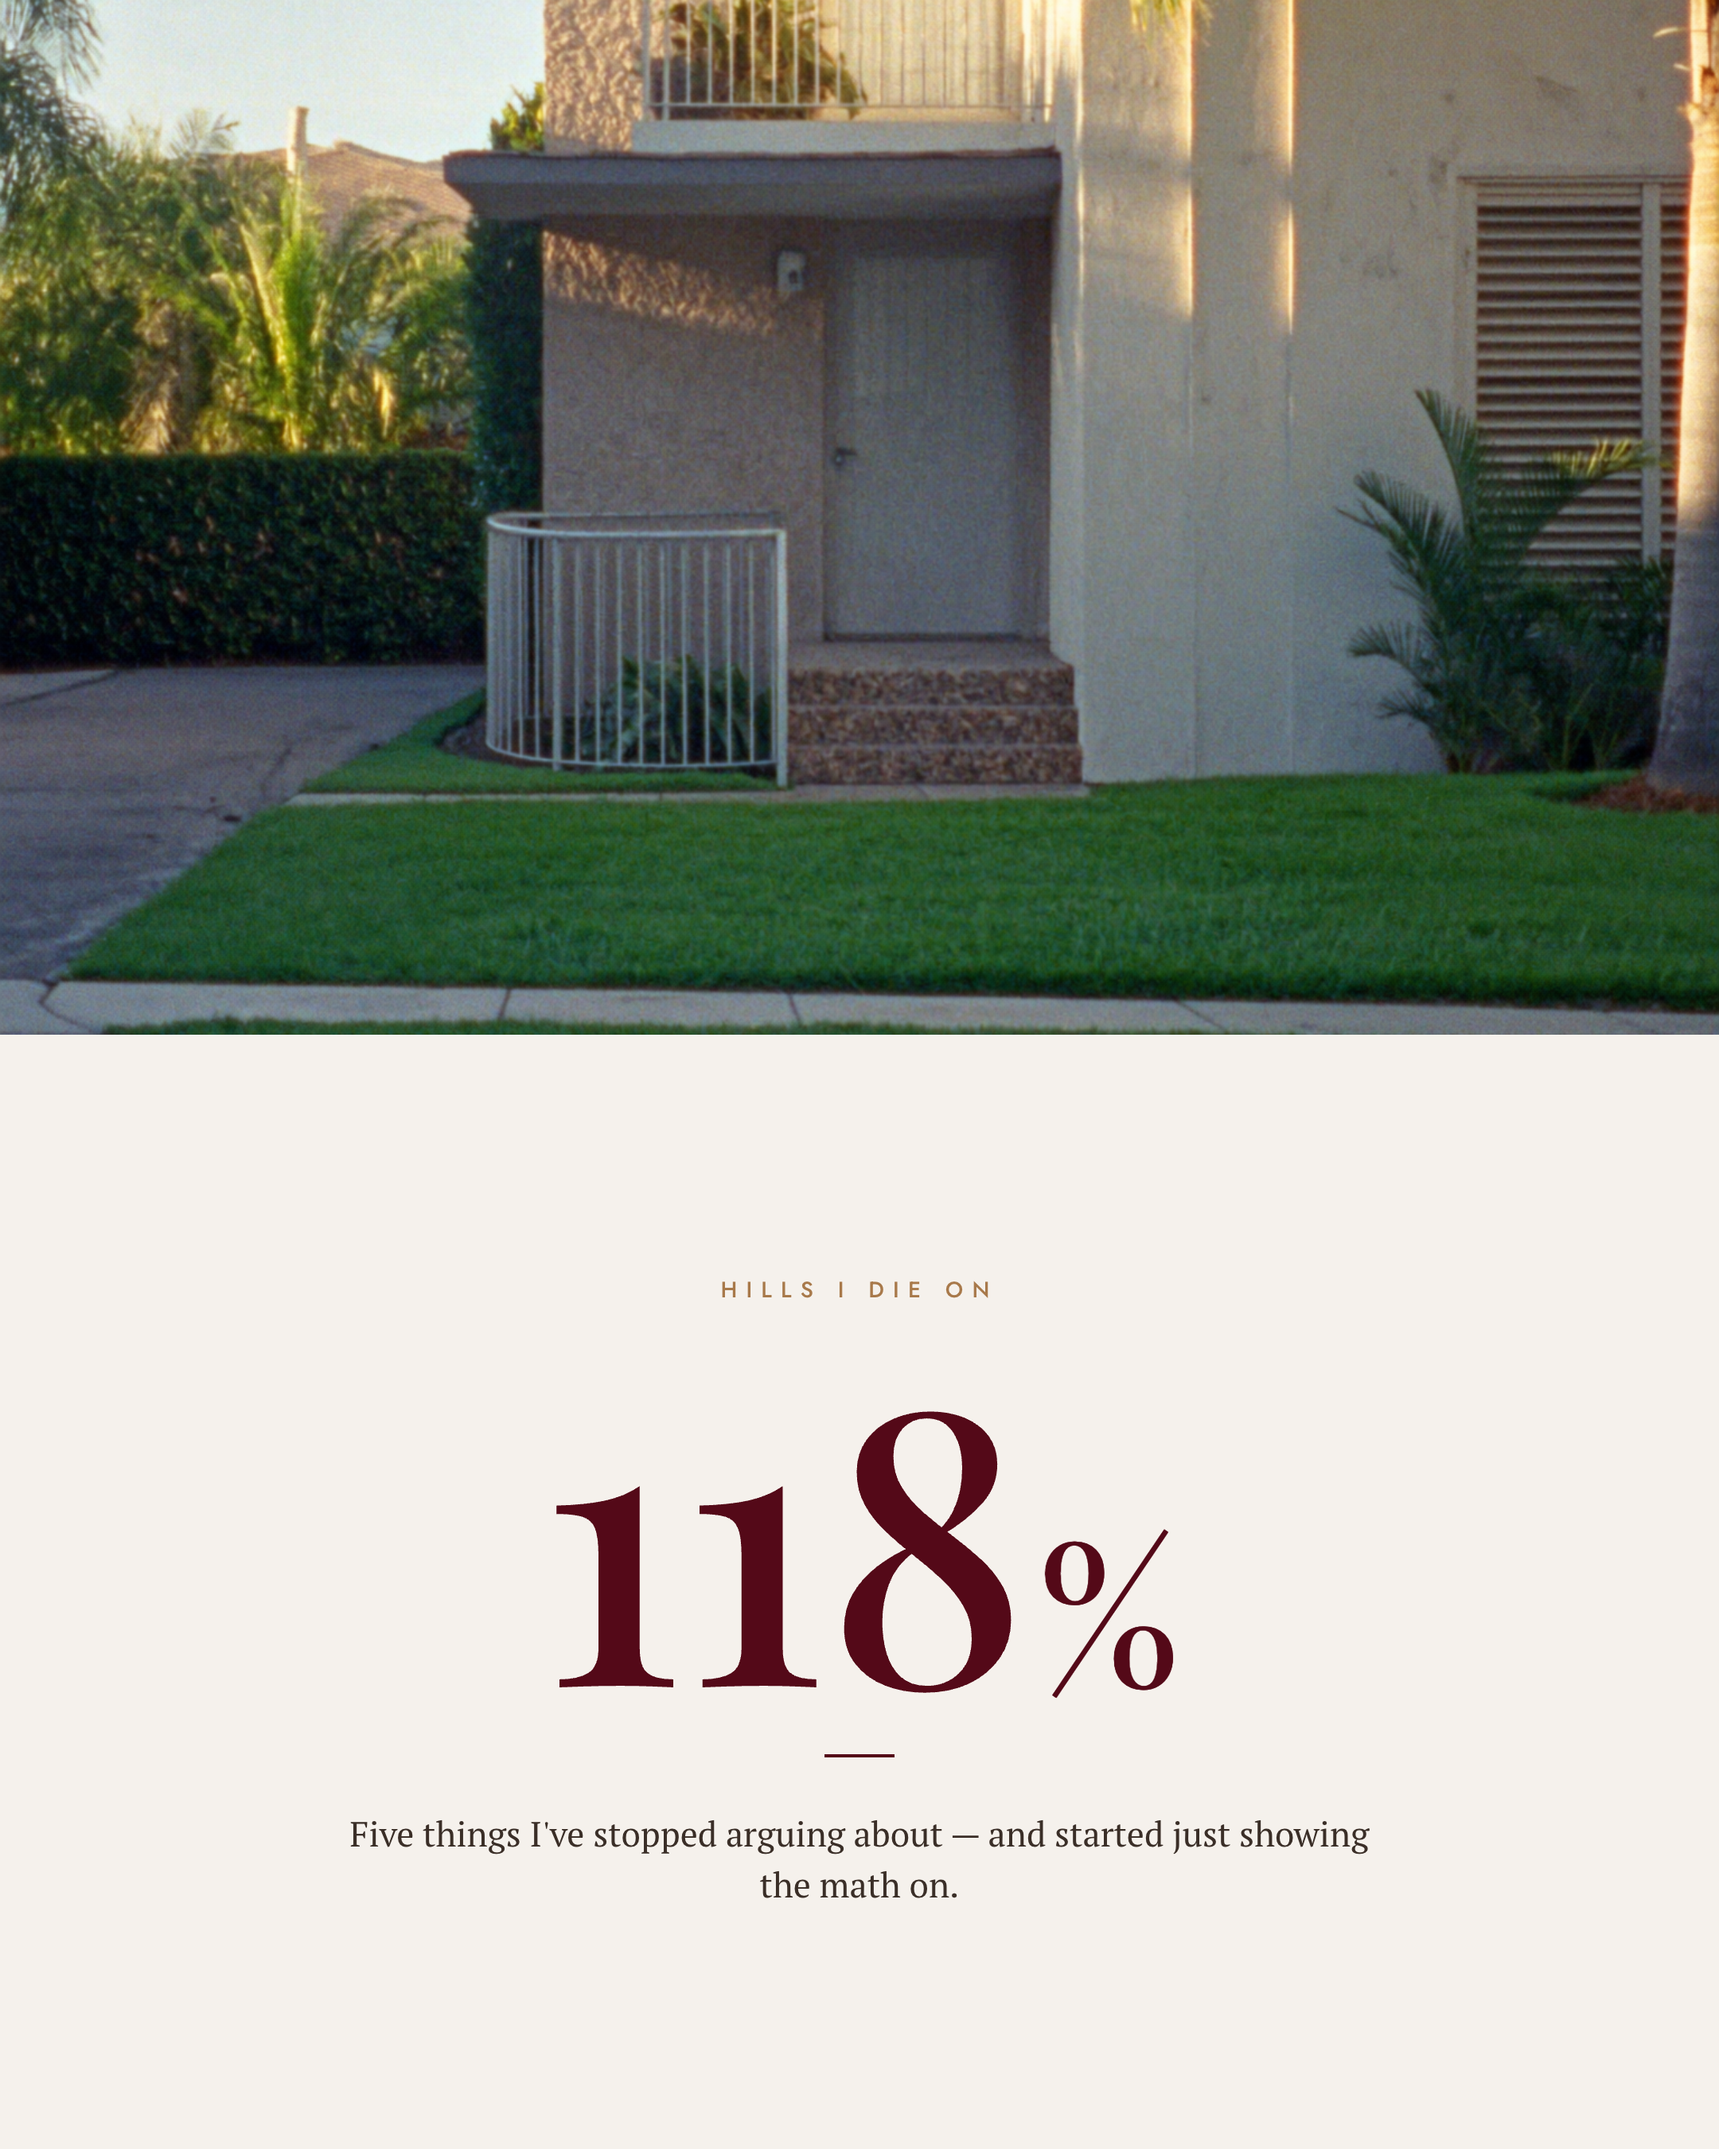
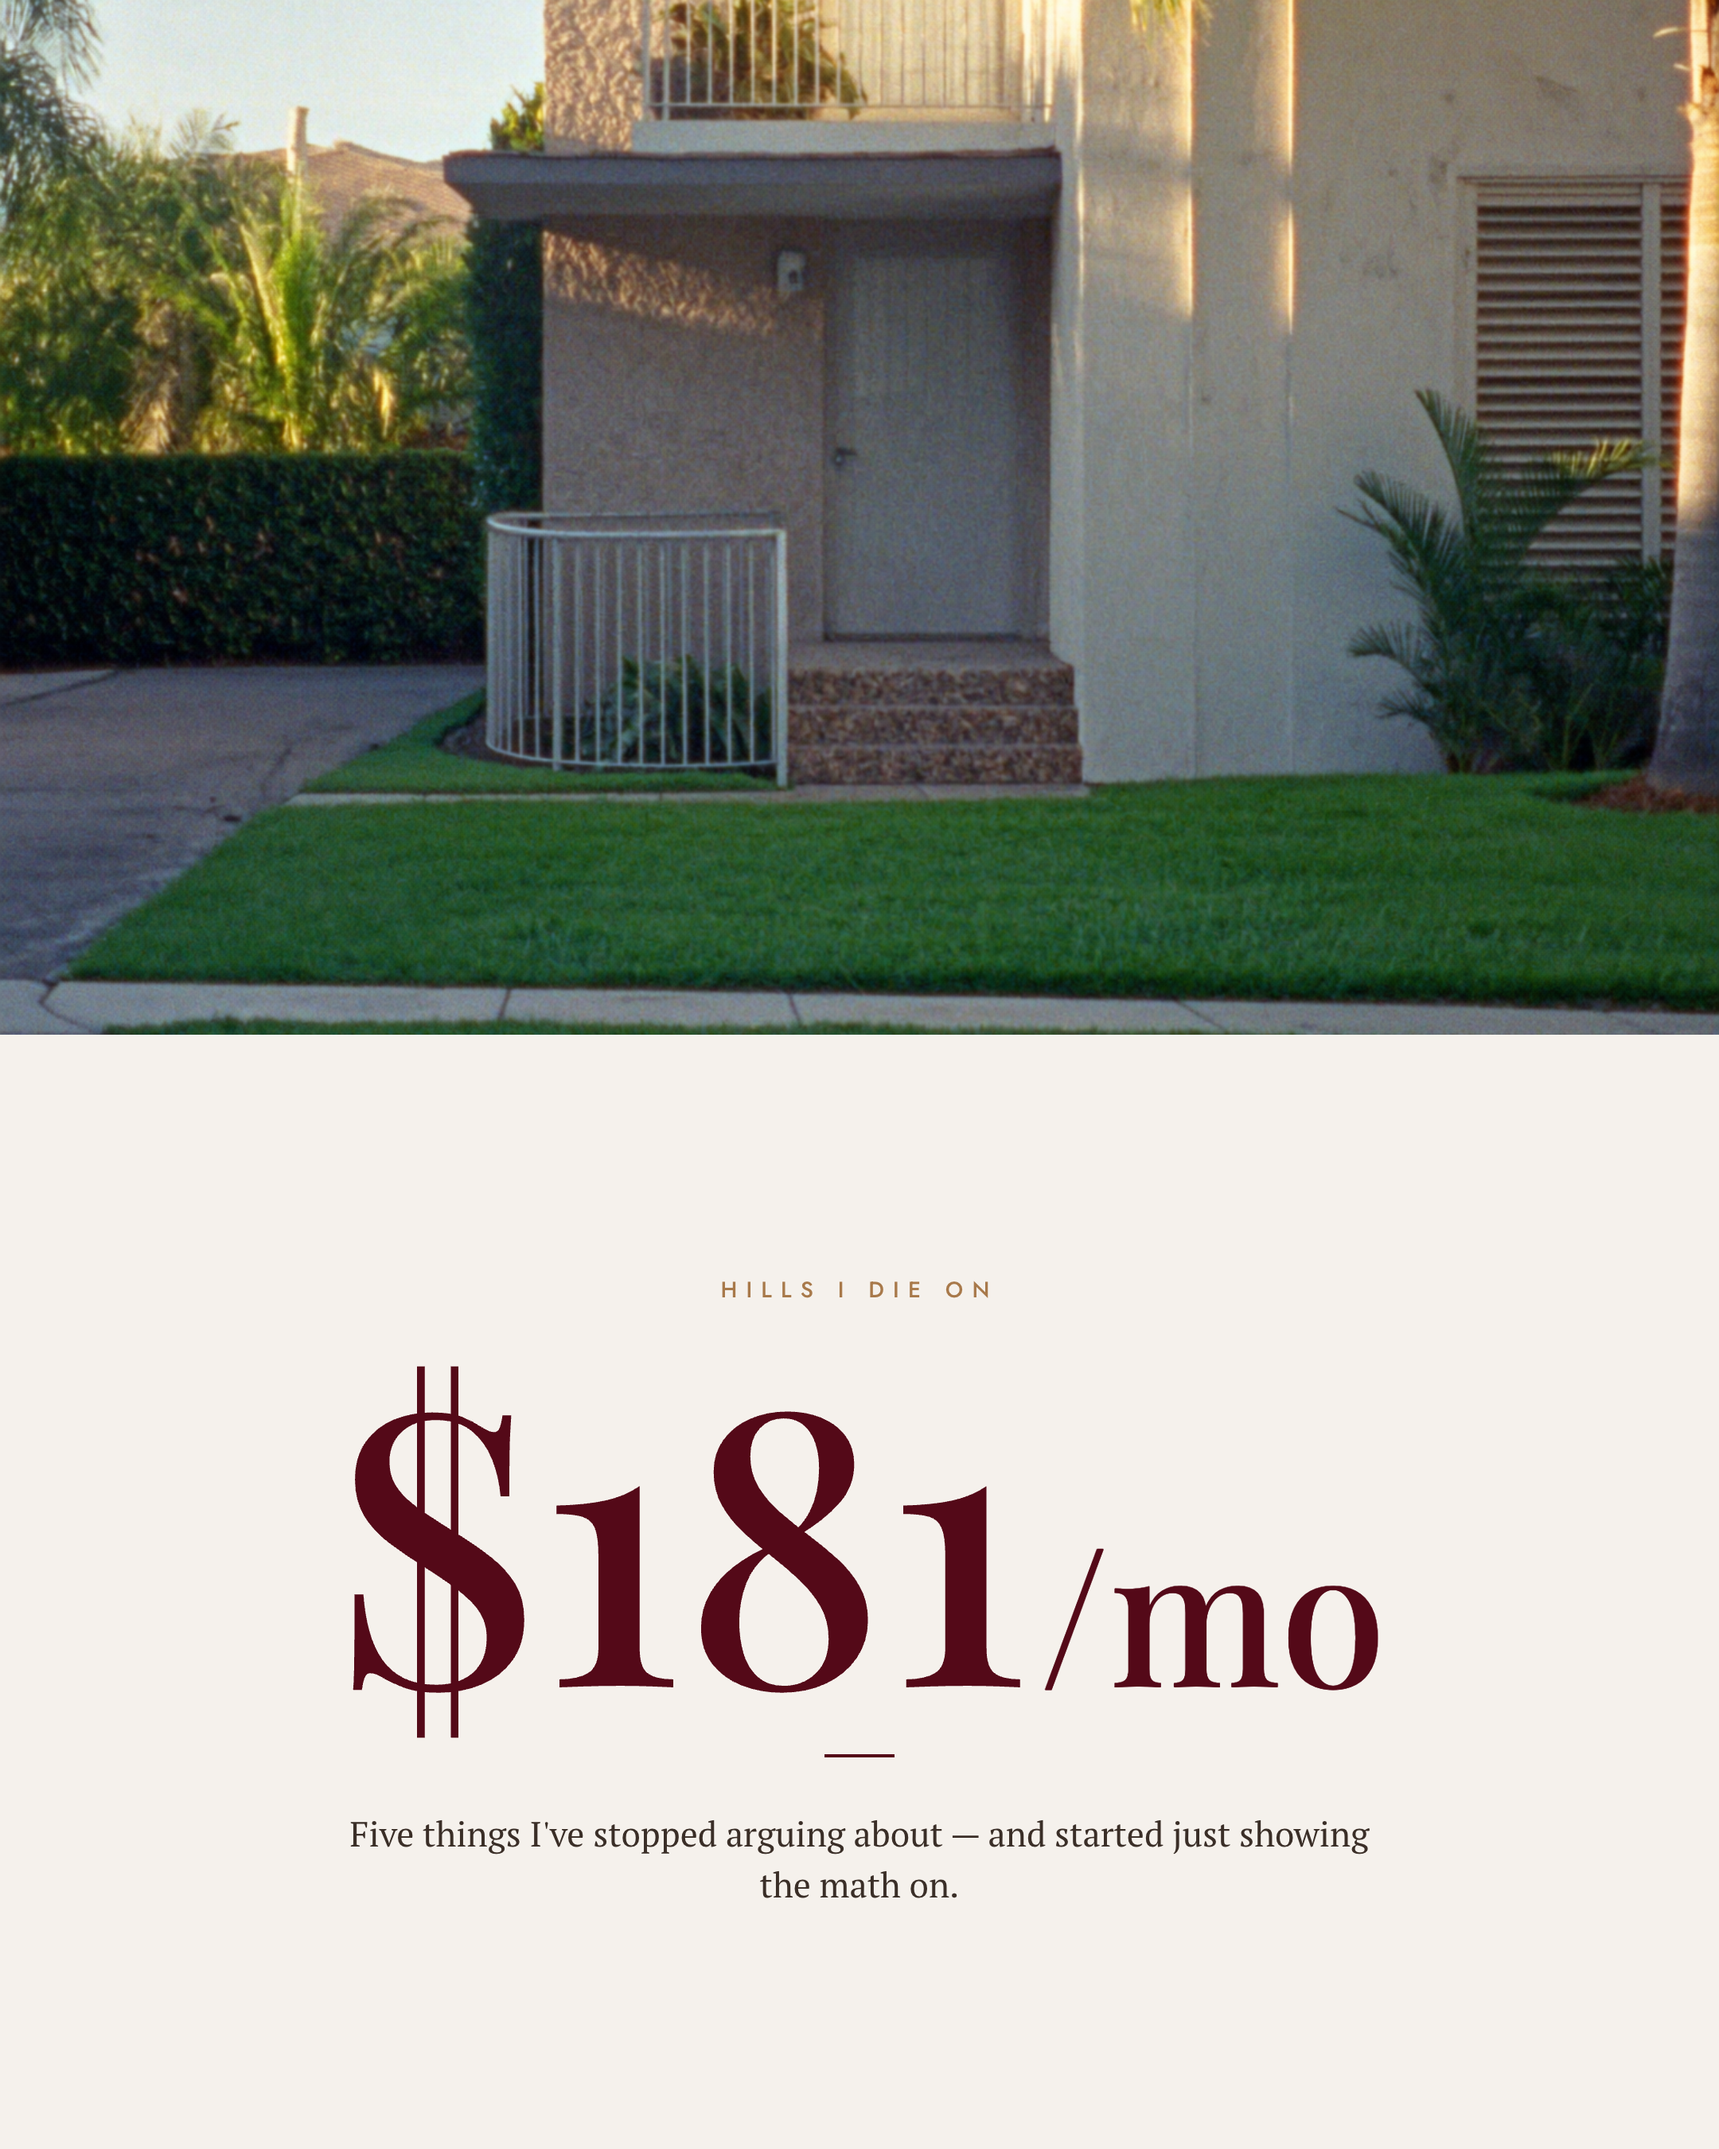
render: W90 (auto-published from production-dispatcher)

Changed region(s): [[0.4032, 0.6533, 0.8065, 0.8089], [0.1861, 0.6533, 0.3102, 0.8089]]

diff --git a/W90-acc3a8/mon/index.html b/W90-acc3a8/mon/index.html
@@ -131,7 +131,7 @@
 
   <footer class="page-footer">
     <a href="../" class="page-footer__back">&larr; back to W90</a>
-    <div class="page-footer__updated">Updated Jun 9, 2026 1:14 PM</div>
+    <div class="page-footer__updated">Updated Jun 9, 2026 1:30 PM</div>
   </footer>
 
   <script>

diff --git a/W90-acc3a8/thu/index.html b/W90-acc3a8/thu/index.html
@@ -131,7 +131,7 @@
 
   <footer class="page-footer">
     <a href="../" class="page-footer__back">&larr; back to W90</a>
-    <div class="page-footer__updated">Updated Jun 9, 2026 1:14 PM</div>
+    <div class="page-footer__updated">Updated Jun 9, 2026 1:30 PM</div>
   </footer>
 
   <script>

diff --git a/W90-acc3a8/index.html b/W90-acc3a8/index.html
@@ -100,7 +100,7 @@
 
   <footer class="page-footer">
     <div class="page-footer__token">W90 &middot; acc3a8</div>
-    <div class="page-footer__updated">Updated Jun 9, 2026 1:14 PM</div>
+    <div class="page-footer__updated">Updated Jun 9, 2026 1:30 PM</div>
   </footer>
 </body>
 </html>
